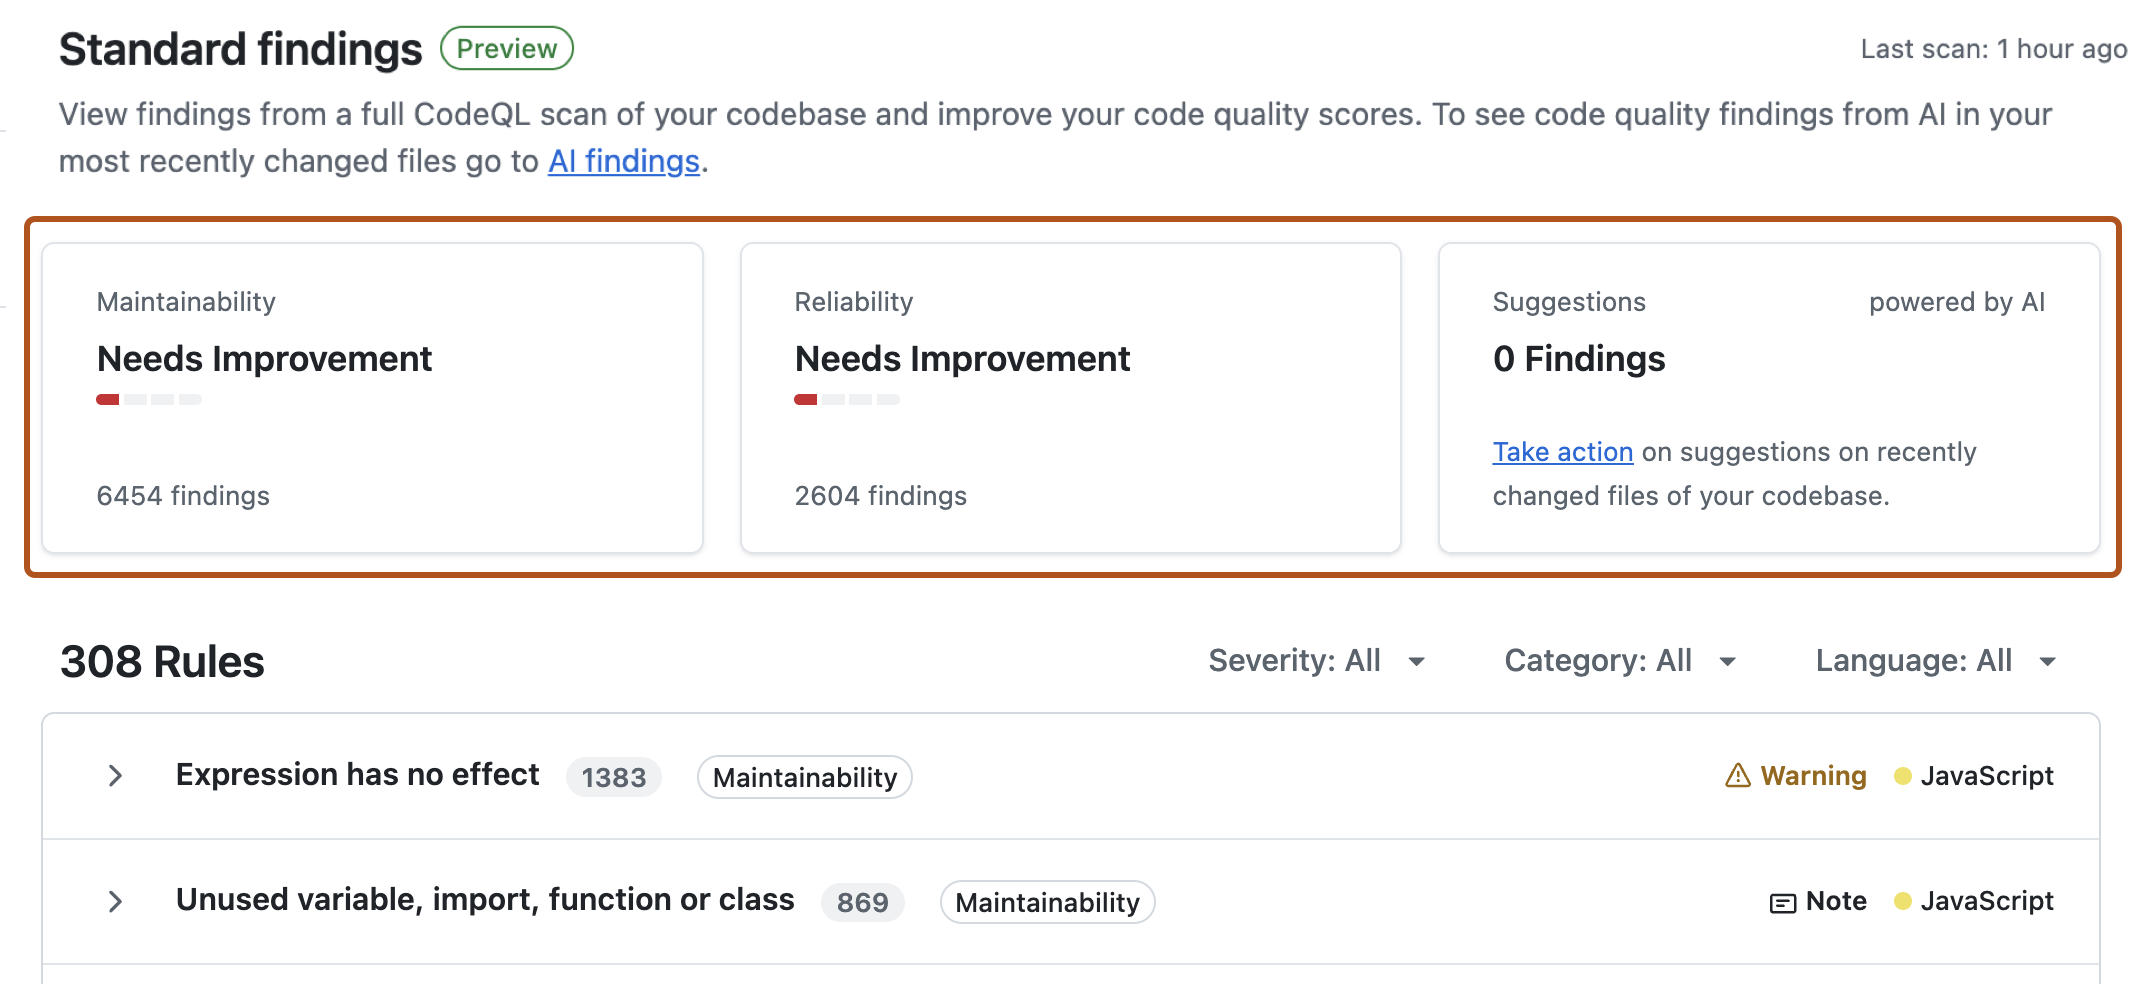
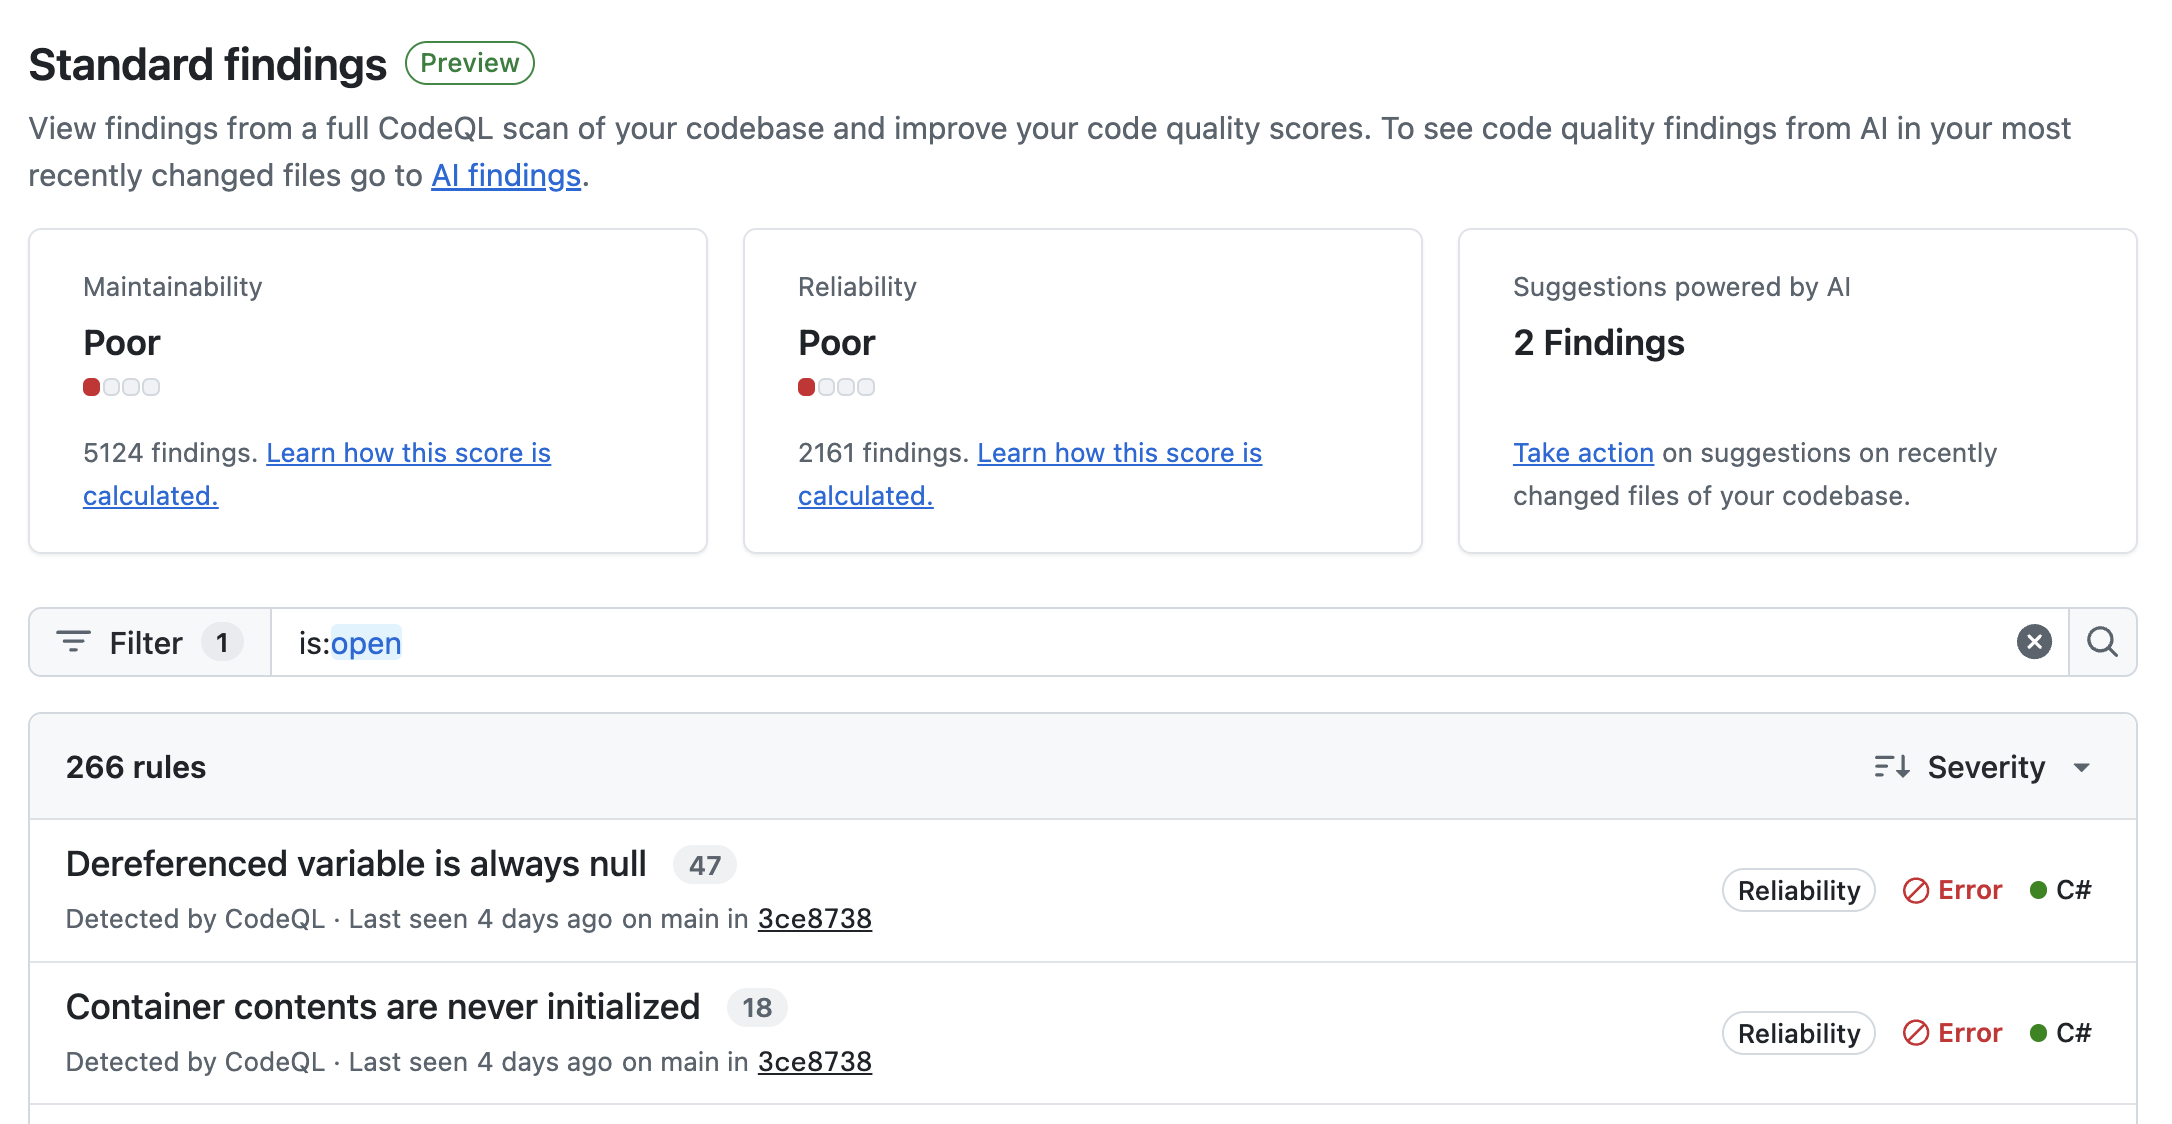
Rename code quality score "Needs Improvement" to "Poor" (#62252)

diff --git a/content/code-security/how-tos/view-and-interpret-data/analyze-organization-data/explore-code-quality.md b/content/code-security/how-tos/view-and-interpret-data/analyze-organization-data/explore-code-quality.md
@@ -30,7 +30,7 @@ category:
 
 The score distribution chart provides a visual overview of the code health of your organization. Each bubble represents a collection of repositories with the same maintainability and reliability scores.
 * The **position** of each bubble demonstrates the overall health of those repositories. Higher bubbles represent higher maintainability scores, while bubbles further to the right represent higher reliability scores.
-* The **color and border pattern** of a bubble indicate the severity of the lower score for those repositories. For example, a bubble with a "Needs improvement" score in either category will always be red with a dashed border.
+* The **color and border pattern** of a bubble indicate the severity of the lower score for those repositories. For example, a bubble with a "Poor" score in either category will always be red with a dashed border.
 * The **size** of each bubble represents the number of repositories with that particular score combination.
 
 To view the maintainability score, reliability score, and number of repositories represented by a particular bubble, hover over the bubble.

diff --git a/content/code-security/reference/code-quality/metrics-and-ratings.md b/content/code-security/reference/code-quality/metrics-and-ratings.md
@@ -45,7 +45,7 @@ These ratings are used to summarize the overall reliability and maintainability 
 | **Excellent**        | Codebase demonstrates best practices for reliability and maintainability. | No code quality findings detected                              |
 | **Good**             | Codebase has low-severity issues or minor improvements are suggested. | ≥1 "Note" level finding       |
 | **Fair**             | Codebase has moderate-severity issues that may impact quality, but are not critical. | ≥1 "Warning" level finding              |
-| **Needs Improvement**| Codebase has high-severity issues, including bugs or major maintainability risks. | ≥1 "Error" level finding                |
+| **Poor**             | Codebase has high-severity issues, including bugs or major maintainability risks. | ≥1 "Error" level finding                |
 
 ## Code coverage
 

diff --git a/content/code-security/tutorials/improve-code-quality/improve-your-codebase.md b/content/code-security/tutorials/improve-code-quality/improve-your-codebase.md
@@ -49,7 +49,7 @@ Use the dashboard **filters** to focus on the highest-severity results first ("E
 
 To improve your repository's maintainability or reliability rating, you must resolve (fix or dismiss) all findings with the highest severity level for that metric.
 
-For example, to improve your repository's "Reliability" metric from **Needs improvement** to **Fair**, you would need to address and resolve all **error-level findings** that impact reliability. If you have one or more error-level findings, your rating cannot be higher than "Needs improvement". See [AUTOTITLE](/code-security/code-quality/reference/metrics-and-ratings).
+For example, to improve your repository's "Reliability" metric from **Poor** to **Fair**, you would need to address and resolve all **error-level findings** that impact reliability. If you have one or more error-level findings, your rating cannot be higher than "Poor". See [AUTOTITLE](/code-security/code-quality/reference/metrics-and-ratings).
 
 ## 3. Investigate a group of findings and understand context
 